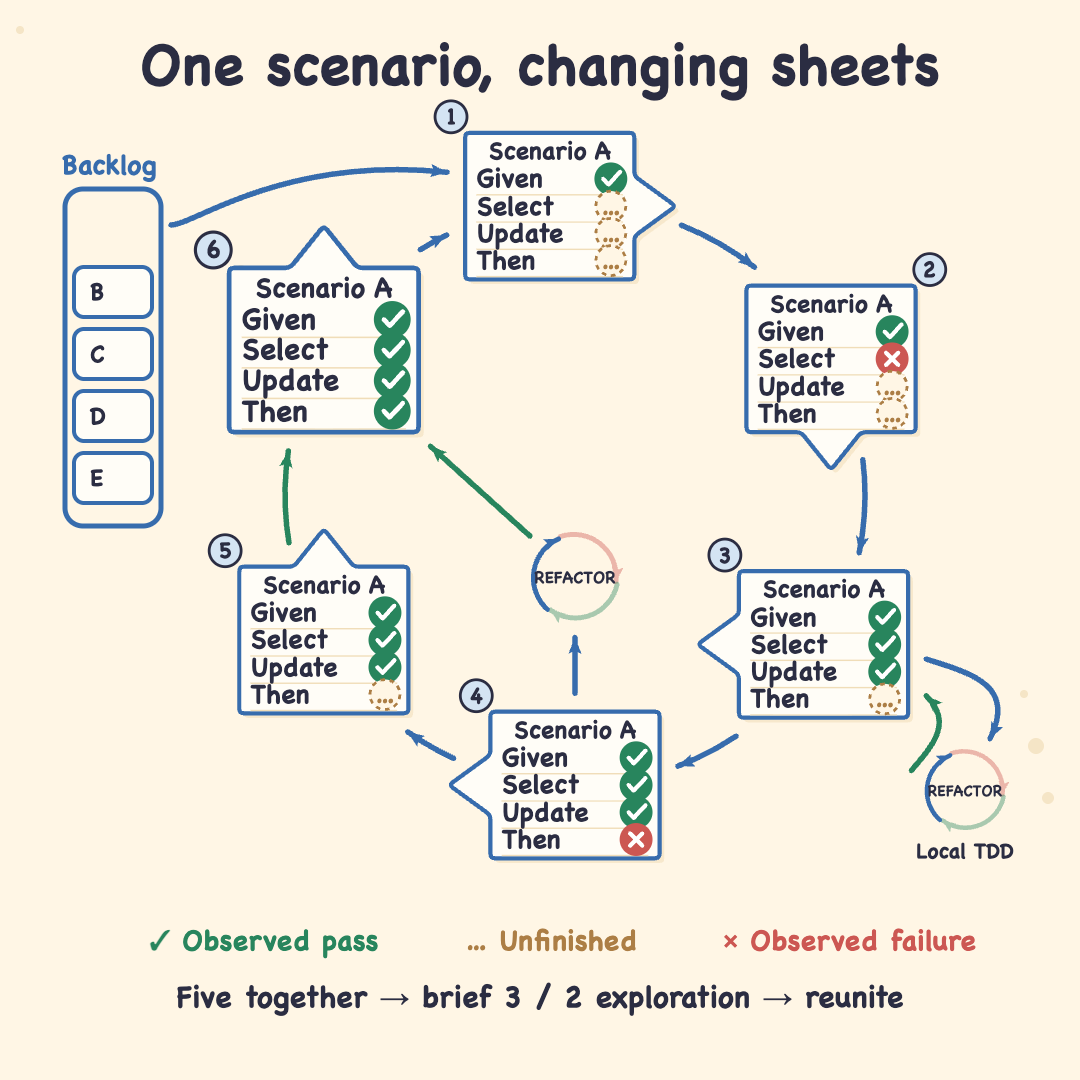
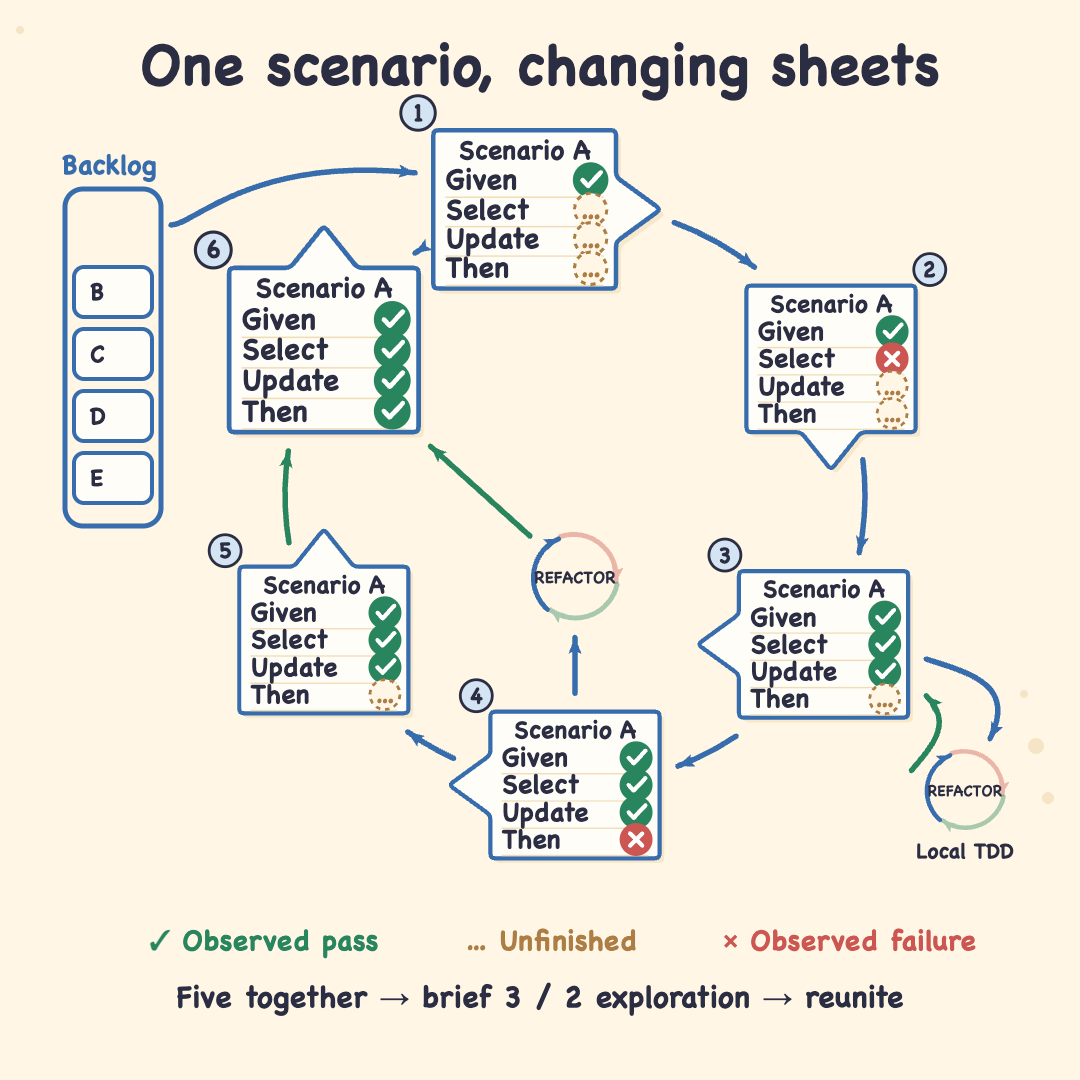
Reproduce a second staging revision across the ATDD film and diagrams

Changed region(s): [[0.3667, 0.0917, 0.6417, 0.275], [0.2139, 0.1528, 0.3361, 0.1833], [0.1833, 0.1833, 0.2139, 0.2139]]

diff --git a/terry-moves/tests/atdd/collaboration.spec.tsx b/terry-moves/tests/atdd/collaboration.spec.tsx
@@ -4,7 +4,7 @@ import { ATDDScene, DiagramBoard } from '../../src/atdd/Scene';
 import { cue } from '../../src/atdd/diagrams';
 import { FPS, scenes } from '../../src/atdd/film';
 import { palette, RED, STROKE, TEAM_COLORS } from '../../src/atdd/art';
-import { ATDDStaging } from '../../src/atdd/staging';
+import { ATDDStaging, staging as selectedStaging } from '../../src/atdd/staging';
 import { baselineStaging, resizedStaging } from './stagingFixtures';
 import { actorBounds, bounds, gap, labelBounds, outline, shapeBounds, visible, world } from './renderedGeometry';
 
@@ -28,7 +28,7 @@ const nearestEdge = (point: { x: number; y: number }, polygon: { x: number; y: n
 }));
 
 describe('resized collaborators in the actual circle film', () => {
-	it.each([['source', baselineStaging], ['resized', resizedStaging]] as const)('%s: preserves failure, 3/2 work, unfinished finishing, pre-pass merge and all-green reunion', (_, staging) => {
+	it.each([['source', baselineStaging], ['resized', resizedStaging], ['selected second edit', selectedStaging]] as const)('%s: preserves failure, 3/2 work, unfinished finishing, pre-pass merge and all-green reunion', (_, staging) => {
 		const failed = scene(cue(8, 0, 'wrong') + 0.3, staging);
 		expect(status(sheets(failed)[3])).toEqual([palette.behavior, palette.behavior, palette.behavior, RED]);
 		const split = scene(cue(9, 1, 'two') + 1.3, staging);
@@ -50,7 +50,7 @@ describe('resized collaborators in the actual circle film', () => {
 		expect(sheets(restored).every(visible)).toBe(true);
 	});
 
-	it.each([['source', baselineStaging], ['resized', resizedStaging]] as const)('%s: actor silhouettes clear each other, visible sheet labels/badges and film furniture through the journey', (_, staging) => {
+	it.each([['source', baselineStaging], ['resized', resizedStaging], ['selected second edit', selectedStaging]] as const)('%s: actor silhouettes clear each other, visible sheet labels/badges and film furniture through the journey', (_, staging) => {
 		const times = Array.from({ length: Math.ceil((scenes[11].start + 0.8 - scenes[9].start) * FPS) }, (_, i) => scenes[9].start + i / FPS);
 		times.push(cue(10, 0, 'reunite') + 0.4, cue(10, 0, 'reunite') + 0.7, cue(10, 0, 'reunite') + 1.1);
 		times.forEach((seconds) => {
@@ -113,7 +113,7 @@ describe('resized collaborators in the actual circle film', () => {
 		[3, 0, 4, 1, 2].forEach((index) => expect(renderToStaticMarkup(<ATDDScene seconds={times[index]} staging={resizedStaging} />)).toBe(renders[index]));
 	});
 
-	it.each([['source', baselineStaging], ['resized', resizedStaging]] as const)('%s: the moving main-team label reserves its own room on the approach to Then', (_, staging) => {
+	it.each([['source', baselineStaging], ['resized', resizedStaging], ['selected second edit', selectedStaging]] as const)('%s: the moving main-team label reserves its own room on the approach to Then', (_, staging) => {
 		const count = Math.ceil((scenes[8].end - scenes[8].start) * FPS);
 		Array.from({ length: count }, (_, i) => scenes[8].start + i / FPS).forEach((seconds) => {
 			const frame = scene(seconds, staging);

diff --git a/terry-moves/tests/atdd/restaging.spec.tsx b/terry-moves/tests/atdd/restaging.spec.tsx
@@ -5,7 +5,7 @@ import { cue } from '../../src/atdd/diagrams';
 import { durationInFrames, FPS } from '../../src/atdd/film';
 import { palette, STROKE } from '../../src/atdd/art';
 import { ballColors } from '../../src/storyImpact/scene';
-import { ATDDStaging } from '../../src/atdd/staging';
+import { ATDDStaging, staging as selectedStaging } from '../../src/atdd/staging';
 import { baselineStaging, revisedStaging } from './stagingFixtures';
 
 type Point = { x: number; y: number };
@@ -76,7 +76,7 @@ const assertDirection = (document: Document, path: Element) => {
 };
 
 describe('authored circle staging through the actual ATDD drawings', () => {
-	it.each([['source', baselineStaging], ['edited', revisedStaging]] as const)('%s: trims all clockwise main routes to current outlines and badge reservations', (_, staging) => {
+	it.each([['source', baselineStaging], ['edited', revisedStaging], ['selected second edit', selectedStaging]] as const)('%s: trims all clockwise main routes to current outlines and badge reservations', (_, staging) => {
 		const board = svg(<DiagramBoard diagram="circle" staging={staging} />);
 		const nodes = sheets(board);
 		expect(nodes).toHaveLength(6);
@@ -134,7 +134,7 @@ describe('authored circle staging through the actual ATDD drawings', () => {
 		});
 	});
 
-	it.each([['source', baselineStaging], ['edited', revisedStaging]] as const)('%s: reserves the waiting label inside the current backlog, below its rows and above the caption', (_, staging) => {
+	it.each([['source', baselineStaging], ['edited', revisedStaging], ['selected second edit', selectedStaging]] as const)('%s: reserves the waiting label inside the current backlog, below its rows and above the caption', (_, staging) => {
 		const times = [36, cue(3, 0, 'take') + 0.3, cue(3, 0, 'take') + 0.6, cue(3, 0, 'take') + 0.9, cue(3, 0, 'take') + 1.3];
 		const opacity = times.map((seconds) => {
 			const frame = scene(seconds, staging);

diff --git a/terry-moves/src/atdd/staging.ts b/terry-moves/src/atdd/staging.ts
@@ -26,7 +26,7 @@ export const staging: ATDDStaging = {
 	circle: {
 		x: 575, y: 495, radius: 290, sheetScale: 0.94,
 		sheets: {
-			given: { angle: -95, scale: 1 },
+			given: { angle: -100, scale: 1.08 },
 			selection: { angle: -28, scale: 1 },
 			update: { angle: 31, scale: 1 },
 			then: { angle: 90, scale: 1 },
@@ -40,14 +40,14 @@ export const staging: ATDDStaging = {
 	tree: {
 		nodes: {
 			result: { x: 540, y: 245, width: 240, height: 88 },
-			front: { x: 360, y: 410, width: 260, height: 80 },
-			back: { x: 710, y: 400, width: 230, height: 80 },
+			front: { x: 350, y: 410, width: 280, height: 80 },
+			back: { x: 690, y: 400, width: 240, height: 80 },
 			frontDetail: { x: 265, y: 568, width: 110, height: 68 },
 			frontSibling: { x: 440, y: 568, width: 110, height: 68 },
-			backSibling: { x: 610, y: 570, width: 110, height: 68 },
-			backDetail: { x: 790, y: 575, width: 120, height: 68 },
-			backLeft: { x: 685, y: 735, width: 105, height: 68 },
-			backRight: { x: 865, y: 746, width: 105, height: 68 },
+			backSibling: { x: 595, y: 570, width: 110, height: 68 },
+			backDetail: { x: 775, y: 575, width: 120, height: 68 },
+			backLeft: { x: 670, y: 735, width: 105, height: 68 },
+			backRight: { x: 850, y: 746, width: 105, height: 68 },
 		},
 		lanes: { branchInset: 15, frontDetailInset: 20, internalDetailInset: 10, frontReturnDrop: 53 },
 	},

diff --git a/terry-moves/tests/atdd/treeRestaging.spec.tsx b/terry-moves/tests/atdd/treeRestaging.spec.tsx
@@ -4,7 +4,7 @@ import { ATDDScene, DiagramBoard } from '../../src/atdd/Scene';
 import { cue } from '../../src/atdd/diagrams';
 import { durationInFrames, FPS } from '../../src/atdd/film';
 import { palette, STROKE } from '../../src/atdd/art';
-import type { ATDDStaging, TreeNodeId } from '../../src/atdd/staging';
+import { ATDDStaging, TreeNodeId, staging as selectedStaging } from '../../src/atdd/staging';
 import { baselineStaging, treeStaging } from './stagingFixtures';
 import { Bounds, gap, labelBounds, pathPoints, shapeBounds, visible, world } from './renderedGeometry';
 
@@ -35,7 +35,7 @@ const hierarchy: [TreeNodeId, TreeNodeId][] = [
 	['back', 'backSibling'], ['back', 'backDetail'], ['backDetail', 'backLeft'], ['backDetail', 'backRight'],
 ];
 
-describe.each([['source', baselineStaging], ['authored tree edit', treeStaging]] as const)('%s tree relationships through the actual consumers', (_, staging) => {
+describe.each([['source', baselineStaging], ['authored tree edit', treeStaging], ['selected second edit', selectedStaging]] as const)('%s tree relationships through the actual consumers', (_, staging) => {
 	it('keeps the uneven hierarchy, labels and parent/child outline attachments when boxes move or resize', () => {
 		const drawing = board(staging);
 		expect(drawing.querySelectorAll('[data-tree-node]')).toHaveLength(9);

diff --git a/terry-moves/tests/atdd/scenes.spec.tsx b/terry-moves/tests/atdd/scenes.spec.tsx
@@ -111,4 +111,18 @@ describe('the source-linked ATDD baseline on the current runtime', () => {
 			expect(sceneAt(seconds).documentElement.textContent).toContain(caption.text);
 		});
 	});
+
+	it('preserves caption and checkpoint cues at the selected production default', () => {
+		const selected = (seconds: number) => svg(<ATDDScene seconds={seconds} />);
+		scenes.forEach(({ captions }) => captions.forEach((caption) => {
+			const frame = selected((caption.start + caption.end) / 2);
+			expect(frame.documentElement.textContent).toContain(caption.text);
+		}));
+		[
+			[cue(3, 0, 'pass') + 0.3, 0, [palette.behavior, palette.paper, palette.paper, palette.paper]],
+			[cue(4, 0, 'fails') + 0.3, 1, [palette.behavior, RED, palette.paper, palette.paper]],
+			[cue(8, 0, 'wrong') + 0.3, 3, [palette.behavior, palette.behavior, palette.behavior, RED]],
+			[cue(10, 0, 'pass') + 0.3, 5, Array(4).fill(palette.behavior)],
+		].forEach(([seconds, index, expected]) => expect(statuses(sheets(selected(seconds as number))[index as number])).toEqual(expected));
+	});
 });

diff --git a/ATDD/restaging.md b/ATDD/restaging.md
@@ -1,0 +1,60 @@
+# Restage the ATDD diagrams
+
+Edit [the maintained staging](../terry-moves/src/atdd/staging.ts), then preview
+`ATDDFilm` in Remotion Studio with `pnpm moves` from the repository root.
+The film, opening and closing miniatures, `ATDDSolutionTree` and
+`ATDDScenarioCycle` all use this input and the same SVG drawing components.
+The script and saved narration/score supply the existing timing.
+
+## Inputs
+
+Coordinates are pixels in the 1080 × 1080 stage. Keep room for the film heading,
+caption band and corner logo as well as the diagram itself. Preview motion at
+full size and at a 360px display before keeping a revision.
+
+- `circle.x`, `y` and `radius` locate the circumference. Each named sheet's
+  `angle` places its center on it; degrees increase clockwise from the right.
+  Keep the six named checkpoints in their narrative order around the circle.
+- `circle.sheetScale` sizes all sheets. A sheet's own `scale` multiplies it.
+  The outline, text, badge and attached arrow clearance share that drawn size.
+- `backlog.x` and `y` move the waiting column, including its compact pose,
+  label and entry/next routes.
+- `localLoop.offset` locates the first external TDD loop relative to the circle
+  center. `size` scales that loop; its departure and return follow Update.
+- `participants.scales` sizes the five existing colored identities in order.
+  The 3/2 split, shared approach/return lanes and camera follow their footprints
+  and identified sheets, preserving when they separate and reunite.
+- `tree.nodes` stores each identified box's center, width and height. Its
+  parent/child links, label, traversal and test attachments follow those boxes.
+  The uneven hierarchy and scenario meaning remain with the drawing.
+- `tree.lanes` sets the authored route roles: `branchInset` places traversal
+  inside the main boxes; `frontDetailInset` places its front-detail visit;
+  `internalDetailInset` places the internal test's descent; `frontReturnDrop`
+  leaves a return lane below the front-end box.
+
+Leave adequate space between sheets, tree levels, probes, labels and actor
+lanes. These routes express authored relationships; they do not automatically
+place boxes or avoid arbitrary obstacles. When a layout is crowded, revise the
+staging inputs and inspect the journey. Do not repair a second list of paths,
+label positions or participant coordinates.
+
+## Reproduce the selected staging
+
+From the repository root:
+
+```sh
+nix develop -c sh -c 'pnpm install --frozen-lockfile'
+pnpm moves
+nix develop -c sh -c 'pnpm -C terry-moves render:atdd'
+nix develop -c sh -c 'pnpm -C terry-moves diagrams:atdd'
+```
+
+`render:atdd` produces `terry-moves/out/atdd-restaged.mp4` and its opening
+poster. `diagrams:atdd` regenerates both SVGs and both native PNGs under
+[diagrams](diagrams/). Open the resulting movie and diagrams to check the
+actual typography and motion, including tree/probes, backlog compaction,
+local work, split and reunion, and the cover/closing miniatures.
+
+The source movie reproduced on this runtime remains at
+`terry-moves/out/restaging/default.mp4` for comparison. Keep the original
+[script](film-script.json) and saved audio intact when restaging.

diff --git a/.planning/quick/013-restage-diagrams/proof.md b/.planning/quick/013-restage-diagrams/proof.md
@@ -206,3 +206,40 @@ not assertions that an output already exists in this preparation workspace.
   reruns. Selective source ESLint and whitespace checks passed. Saved script,
   audio and authored caption/state cues stay unchanged; final encode comparison
   remains slice 5. No remote-CI claim.
+
+## Slice 5 accepted proof
+
+- Second production revision changes only `src/atdd/staging.ts` data: Given
+  angle -100/scale 1.08, Front x350/width280, Back x690/width240, and four back
+  descendants 15px left. No path, label, timing or collaborator repair changed.
+  Source/first-edit fixtures remain independent; selected-default cases in
+  `tests/atdd/restaging.spec.tsx`, `collaboration.spec.tsx` and
+  `treeRestaging.spec.tsx` observe current outlines, directed routes, every-frame
+  moving clearances, trace/probes and transformed consumers. Setup supplies
+  authored staging/time to actual scene/boards, not derived geometry stubs.
+  `scenes.spec.tsx` observes all captions and checkpoint cues at the selected
+  default. The focused ATDD command above passed 44 tests before that last case;
+  final integration includes it: `nix develop -c sh -c 'NODE_ENV=test pnpm moves
+  test'` passed 47 suites/477 tests (119.557s), package lint and TypeScript.
+- Actual `render:atdd` and complete `diagrams:atdd` commands above passed.
+  Final movie/poster are under `terry-moves/out/`; both SVGs/PNGs under
+  `ATDD/diagrams/`. Coordinator inspected the actual final PNGs and browser
+  rendered SVGs: typography, hierarchy/probes, local loops and legends clear;
+  circle has 17 unique markers/17 resolved references. SVG preview copies were
+  byte-identical to those generated outputs, not recreated drawings.
+- Final ffprobe reports 1080×1080, 4471 decoded frames/30fps, 149.035s; full
+  ffmpeg decode passed. Script/both saved MP3 hashes match source-evidence.md.
+  Baseline/final decoded mixed PCM SHA-256 both equal
[1 lines of base64/hex data omitted]
+- Native exact encoded movie at 1080px and 360px covered tree 16–25s, main
+  36–50s, local 73.5–85s and split/reunion 92.5–115.5s. Small observations
+  102.543s unfinished Finishing, 106.793s pre-pass reunion, 110.778s all-green,
+  115.559s restored circle; covers 0/4470 and out-of-order seeks clear. Manual:
+  Good. Initial non-seekable preview was replaced by a normal Range server.
+  Restart preserved completed proof; remaining SVG inspection was recovered.
+  Owned temporary servers stopped. Inherited viewport reset could not confirm
+  after restart because the prior debugger was detached; no product gap found.
+- [ATDD/restaging.md](../../../ATDD/restaging.md) documents maintained inputs,
+  adequate authored space and the same preview/render/export path. Fresh
+  independent refactor: none — already clean; proof unchanged, no reruns.
+  Selective source ESLint and whitespace checks passed. No remote-CI claim.

diff --git a/ATDD/README.md b/ATDD/README.md
@@ -42,6 +42,9 @@ Recreated diagrams: [solution tree](diagrams/solution-tree.png) and
 [tree SVG](diagrams/solution-tree.svg) and [circle SVG](diagrams/scenario-cycle.svg).
 They render from the same drawing components as the film.
 
+See [the restaging guide](restaging.md) to edit diagram positions, sizes and
+authored lanes through the maintained input, then reproduce every output.
+
 ## Watch and reproduce
 
 ```sh

diff --git a/.planning/quick/013-restage-diagrams/PLAN.md b/.planning/quick/013-restage-diagrams/PLAN.md
@@ -174,7 +174,9 @@ engine is justified by this second example.
 
 ### 5. Another staging edit reaches the film and every diagram output
 Type: Behavior
-Status: planned
+Status: done
+
+Accepted evidence: [slice 5](proof.md#slice-5-accepted-proof).
 
 Behavior: given both revised examples, Terry edits their maintained staging data
 again and runs the same documented preview/render/export commands. The registered
